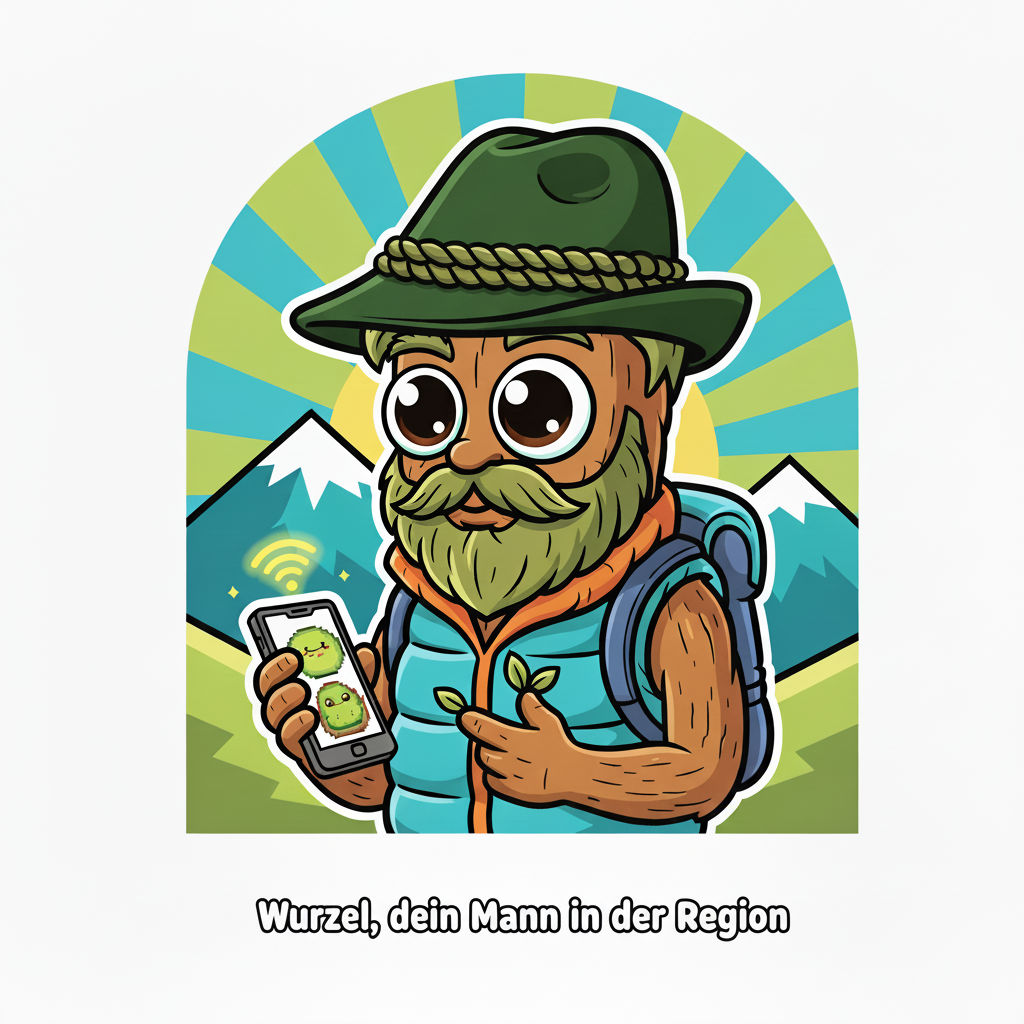
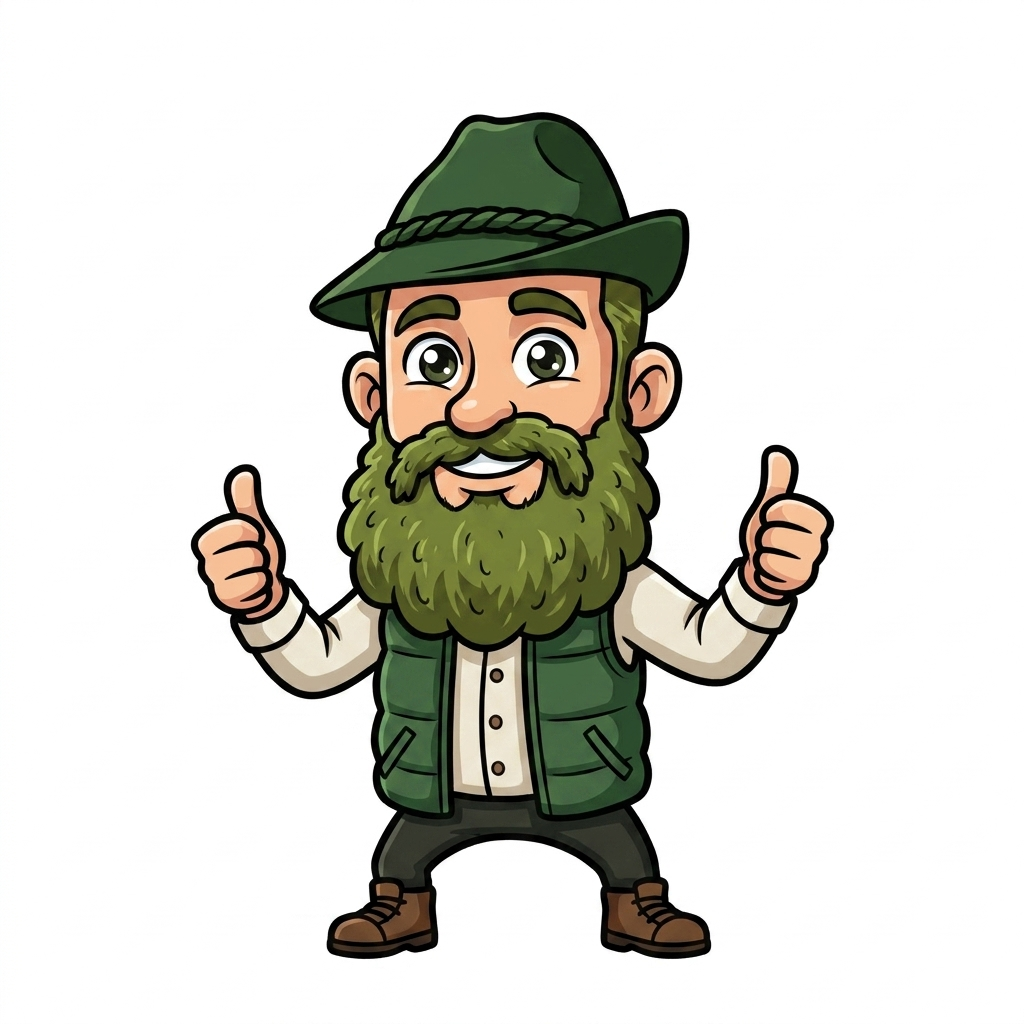
fix(mascot): show full Sepp figure on white wappen-circle
User replaced /images/wurzelmann.png with a cartoon Sepp (1024×1024,
opaque white background, no alpha channel). Three iterations to find
a workable rendering:

1. background-image div with face-crop (backgroundSize 220-280% +
   backgroundPosition 50% 12-15%) — head-only thumbnail.
2. After "voller körper, kein crop": <img object-contain> showing
   the whole figure, plus mix-blend-multiply on dark sections to
   merge the white margin with the loden background.
3. After Sepp invisible on bg-ink AppBar: dropped multiply on dark
   sections — multiplying with #071806 killed the character colors
   entirely.

Final: three avatar slots use `<img object-contain rounded-full>`
without blend. The white margin around the figure becomes an
intentional wappen-circle frame on dark sections (AppBar,
FragDenSepp); on MascotGreeting's parchment it stays unobtrusive.

diff --git a/src/components/reader/LodenAppBar.tsx b/src/components/reader/LodenAppBar.tsx
@@ -40,13 +40,13 @@ export function LodenAppBar({ bezirke }: LodenAppBarProps) {
       />
 
       <div className="bg-ink px-4 h-14 flex items-center justify-between">
-        {/* Left: round mascot emblem + serif wordmark */}
+        {/* Left: round mascot emblem (full figure) + serif wordmark */}
         <Link href="/" className="flex items-center gap-3">
           {/* eslint-disable-next-line @next/next/no-img-element */}
           <img
             src="/images/wurzelmann.png"
             alt=""
-            className="w-9 h-9 rounded-full bg-ink-deep object-cover shrink-0"
+            className="w-9 h-9 rounded-full object-contain shrink-0"
           />
           <span className="font-headline italic text-parchment text-xl">
             Loden &amp; Leute

diff --git a/src/components/reader/MascotGreeting.tsx b/src/components/reader/MascotGreeting.tsx
@@ -34,12 +34,12 @@ export function MascotGreeting() {
 
   return (
     <div className="flex items-start gap-4">
-      {/* Sepp avatar — round mascot crop */}
+      {/* Sepp avatar — full figure on parchment (no blend needed) */}
       {/* eslint-disable-next-line @next/next/no-img-element */}
       <img
         src="/images/wurzelmann.png"
         alt="Sepp"
-        className="w-16 h-16 rounded-full bg-ink-deep object-cover shrink-0"
+        className="w-16 h-16 rounded-full object-contain shrink-0"
       />
 
       <div className="flex-1">

diff --git a/src/components/reader/FragDenSeppCard.tsx b/src/components/reader/FragDenSeppCard.tsx
@@ -10,11 +10,12 @@ export function FragDenSeppCard() {
       onClick={() => window.dispatchEvent(new Event("openBezirkModal"))}
       className="w-full text-left flex items-start gap-4"
     >
+      {/* Sepp avatar — full figure, white wappen-circle on dark loden bg */}
       {/* eslint-disable-next-line @next/next/no-img-element */}
       <img
         src="/images/wurzelmann.png"
         alt="Sepp"
-        className="w-16 h-16 rounded-full bg-ink object-cover shrink-0"
+        className="w-16 h-16 rounded-full object-contain shrink-0"
       />
       <div className="flex-1">
         <Eyebrow tone="on-dark" className="mb-1">

diff --git a/PROGRESS.md b/PROGRESS.md
@@ -101,5 +101,6 @@ Drei-Commit-Plan: Tokens → Primitives → HomepageLayout+Shell.
 - [21:35] Vier Primitive in `src/components/ui/`: `Eyebrow` (uppercase label-md, tone default/on-dark), `Heading` (variant display-lg/sm + headline-md, `as`-Prop für Tag, tone default/on-dark), `Button` (variant primary mit Ink→Ink-Deep Gradient, tertiary mit 2px-Underline, optional `href` für Next-Link), `SectionBlock` (bg-Variant über alle Surface-Token + voidSize md/lg/none + opt. gutter). Server-renderable, keine `'use client'`-Directives. Typecheck grün (2 vorbestehende Baseline-Failures unverändert). Commit: bcca6cd.
 - [21:50] Brand-Rename Wurzelwelt → Loden & Leute (3a). Drei File-Renames via `git mv` (WurzelAppBar→LodenAppBar, WurzelNavBar→LodenNavBar, FragDenWurzelmannCard→FragDenSeppCard), inkl. Export-Namen + interner Typen. Display-Strings angepasst: AppBar-Wortmarke, Footer-Wortmarke ×2, admin-Sidebar, MascotGreeting "Wurzel sagt"→"Sepp sagt", FragDenSepp-Card-Body. Config: `bundesland.config.ts` siteName/publisherName/email. Domain-Defaults: wurzelwelt.at→lodenundleute.at in robots/sitemap/rss-route/artikel-page/geocode + rss.ts docstring. Tests: public-layout-metadata-Mocks + sitemap.test 4× Default-URL. Voller Test-Suite: 421/423 (exakt Baseline, 2 dokumentierte CONF-02-Failures). Kein Visual-Change. Commit: d9e1e87.
 - [22:00] HomepageLayout-Struktur + Section-Visuals (3b). page.tsx: `getPinnedArticles` Aufruf entfernt (DAL bleibt, wird in /suche genutzt). HomepageLayout neu: 8-Sektionen-Reihenfolge (Hero→Mascot→Ad→MeinBezirk→FragDenSepp→Wetter→Ad→Archiv), SectionBlock-Wrapping mit bg-Variants (parchment/surface/surface-deep) und voidSize=md, "Mein Bezirk" Heading immer sichtbar mit "ALLE NACHRICHTEN"→/suche-Link, Fallback ohne Bezirk-Auswahl zeigt flat allArticles als 1 EditorialCard + Liste, TopMeldungen-Block + filteredPinned-Logik entfernt, 2 Ad-Slots an gewünschten Positionen. HeroArticle restyle: Eyebrow + Heading display-lg + Ink→Ink-Deep CTA-Gradient (Span statt Button wegen nested-Link). MascotGreeting restyle: Sepp-Avatar + Eyebrow + Heading + tertiary BezirkModal-Trigger-Button. FragDenSeppCard restyle: Sepp-Avatar links + Eyebrow tone=on-dark + Heading tone=on-dark + tertiary CTA. WeatherWidget restyle: text-ink (raus aus Dark-Zone), Eyebrow + Heading + Display-sm-Temperatur. GrueneWocheSection Label → "Das Archiv der Woche", Eyebrow statt eigener h2, 3 EditorialCards stacked statt 1+ListItems. Typecheck + Tests grün (421/423 Baseline). Dev-Server-Compile grün (707 modules, HTTP 200). Commit: c7ba92a.
-- [10:35] Shell-Visuals (3c). LodenAppBar: rundes Mascot-Crop-Emblem (`/images/wurzelmann.png`, w-9 h-9 rounded-full mit bg-ink-deep Backdrop) links der Wortmarke, beide in einem Link-Wrapper. Unbenutzter `config`-Import entfernt. Footer komplett neu mit Primitives: bg-ink → bg-ink-deep (Loden-Green per design.md), Heading display-sm italic für Wortmarke, Tagline "Nachrichten aus der Steiermark", Eyebrow as=h3 tone=on-dark für Spaltenüberschriften (Rubriken/RSS-Feeds/Rechtliches), Copyright-Divider ohne 1px-Border (per design.md No-Line-Rule). Eyebrow-Primitive um `as`-Prop erweitert für semantisch korrekte Heading-Tags. Typecheck grün, Dev-Compile grün (710 modules, HTTP 200, kein Tailwind-Utility-Error).
+- [10:35] Shell-Visuals (3c). LodenAppBar: rundes Mascot-Crop-Emblem (`/images/wurzelmann.png`, w-9 h-9 rounded-full mit bg-ink-deep Backdrop) links der Wortmarke, beide in einem Link-Wrapper. Unbenutzter `config`-Import entfernt. Footer komplett neu mit Primitives: bg-ink → bg-ink-deep (Loden-Green per design.md), Heading display-sm italic für Wortmarke, Tagline "Nachrichten aus der Steiermark", Eyebrow as=h3 tone=on-dark für Spaltenüberschriften (Rubriken/RSS-Feeds/Rechtliches), Copyright-Divider ohne 1px-Border (per design.md No-Line-Rule). Eyebrow-Primitive um `as`-Prop erweitert für semantisch korrekte Heading-Tags. Typecheck grün, Dev-Compile grün (710 modules, HTTP 200, kein Tailwind-Utility-Error). Commit: 58e8eaa.
+- [15:40] Mascot-Asset-Iteration nach User-Upload neuer wurzelmann.png (Cartoon, 1024×1024, opaque white bg, kein Alpha). Drei Versuche: (1) `background-image` mit Face-Crop via `backgroundSize:220-280%` + `backgroundPosition:50%_12-15%` für Kopf-Only-Crop. (2) User: "voller körper, kein crop" → zurück auf `<img object-contain>` + `mix-blend-multiply` auf dunklen Sections um den weißen Bildrand mit Loden-Green zu verschmelzen. (3) User: Sepp auf bg-ink unsichtbar (Multiply mit Fast-Schwarz killt Charakterfarben) → Blend raus auf AppBar + FragDenSepp. Finale: drei Slots zeigen ganzen Sepp im weißen Wappen-Kreis (rounded-full + object-contain ohne Blend); MascotGreeting auf Parchment unauffällig, AppBar + FragDenSepp mit sichtbarem weißen Wappen-Frame als "Logo-Badge auf dunkler Section"-Look. Weitere Iterationen bei Bedarf, User parkt Diskussion.
 